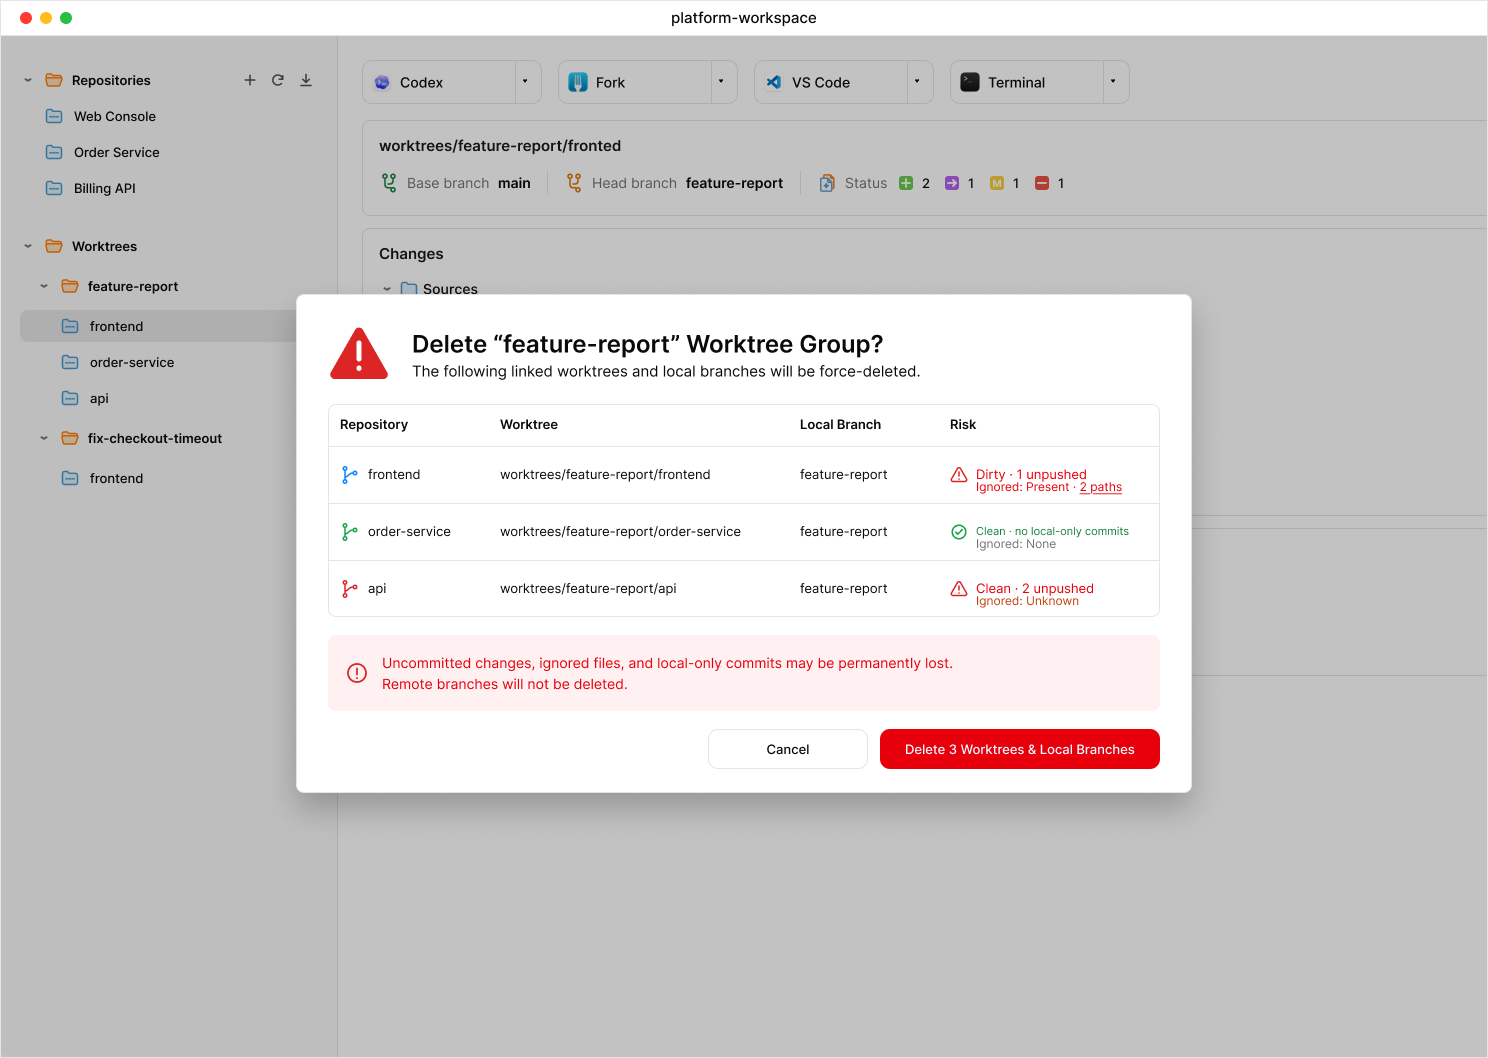
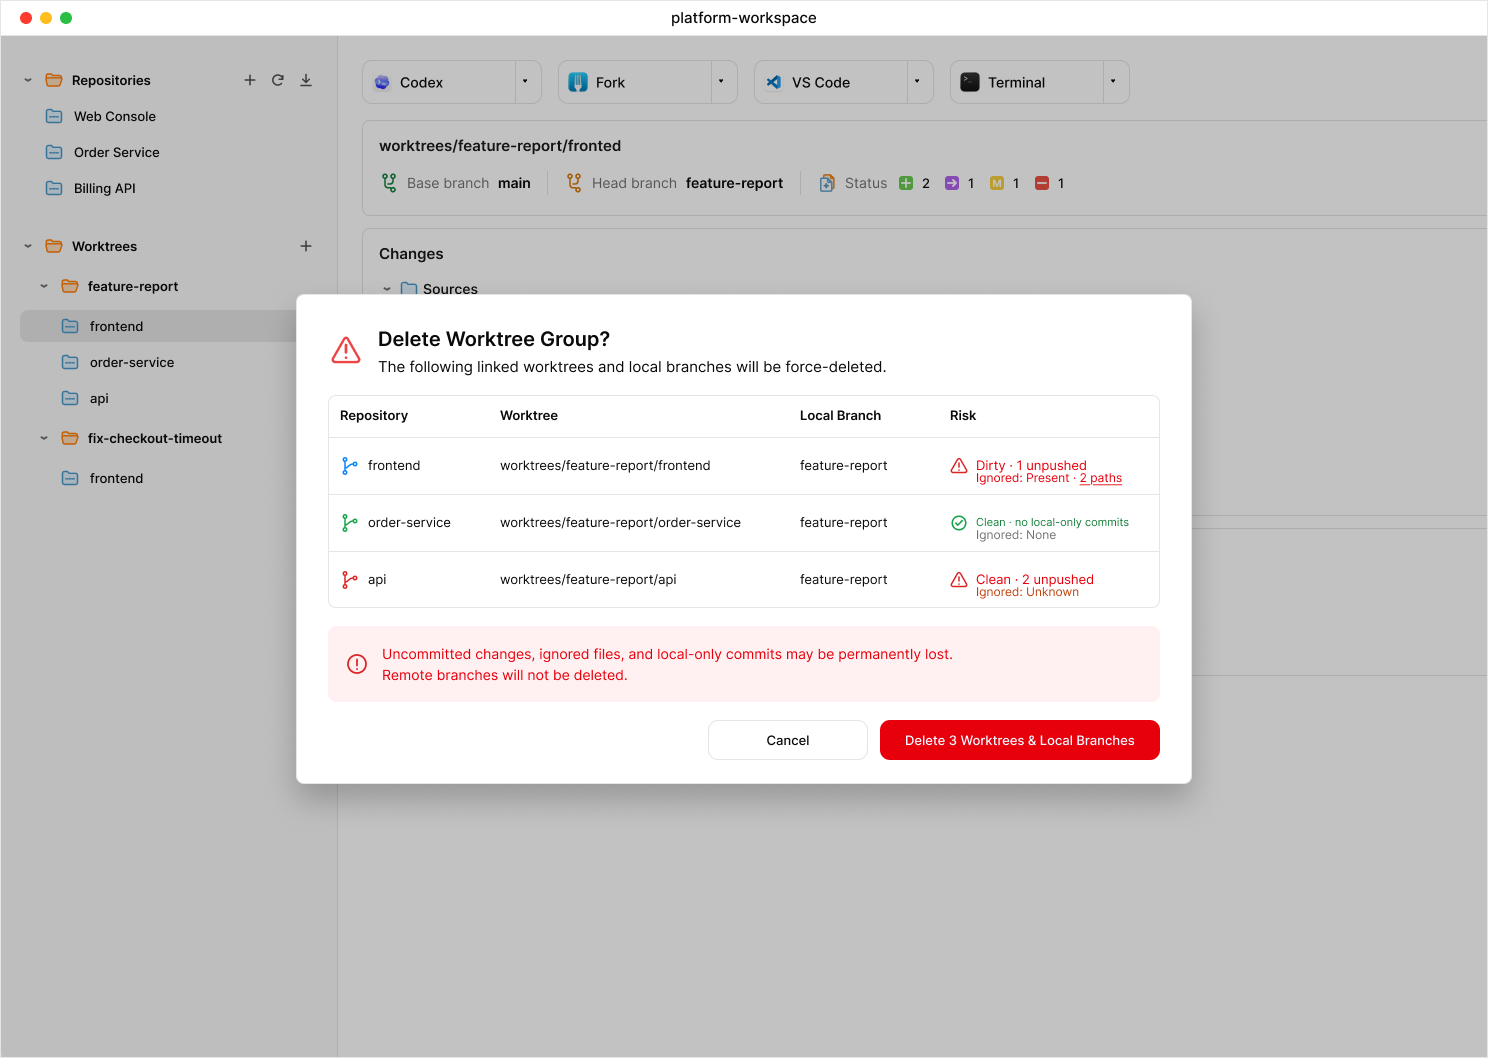
docs: add worktree group management flows

diff --git a/AGENTS.md b/AGENTS.md
@@ -73,12 +73,14 @@ Modu Desktop 是面向多仓库、跨仓库需求开发的 macOS 原生工作区
 
 - `.modu-worktrees.yaml` 按 group 管理 linked worktree。
 - 无论由 CLI 生成还是手工写入，group 都必须是合法单段目录名和可安全作为字面量使用的 Git 分支名；group 的规范化身份在配置内唯一，并统一用于目录映射、幂等判断和 group 锁键。任一 group 或记录分支非法或碰撞时，整份 `.modu-worktrees.yaml` 无效，不能进入 worktree 生命周期操作。
+- GUI 新建 group 时原样保存 Group Name，不自动 slug 化；新建和编辑都必须至少选择一个仓库。未选择仓库时只禁用提交，不显示额外错误提示。
 - `created-at` 使用本地时间 `YYYY-MM-DD HH:MM:SS`，不附带时区。
 - 已有 group 的 `created-at` 不重写；省略 `document` 保留原值，相同规范化路径幂等，不同路径在 Git 副作用前报冲突。
 - 创建流程必须幂等、可重试，并保留多仓库操作中的成功项。
 - `git worktree add` 已成功但 YAML 写入失败时，只有路径、Git 注册、主仓库、分支和 group 元数据都精确匹配才能补写记录；不匹配项必须标记冲突。
 - 同一 group 的 create/remove 使用跨 App/CLI 的 group 操作锁；同一仓库的 clone/staging 提交、origin 更新、Fetch、Pull、worktree 创建/删除、记录分支删除和 repository cleanup/Trash 移动统一使用跨进程仓库生命周期锁。锁按规范化仓库身份生成，目标目录不存在时也必须生效；多锁按规范化标识排序获取。
-- 删除单个 linked worktree 或整个 group 时，无论 dirty 与否都必须二次确认。
+- 从独立 Delete Linked Worktree 或 Delete Worktree Group 命令删除时，无论 dirty 与否都必须二次确认。Edit Worktree Group 中取消勾选已有仓库并提交，以本次 Save Changes 作为移除对应 linked worktree 和本地分支的明确授权，不再展示第二个确认页。
+- Edit Worktree Group 的 Working Tree 列只显示 Clean、Dirty、Unknown 或 Not Created；Dirty 与 Unknown 都允许取消勾选并保存，且 Clean 不表示没有 ignored content 或未推送提交。执行前在 group/仓库锁内重读身份与 working tree 状态；状态变化的 removal 不执行并刷新对应行，其他不受影响项继续。
 - 用户确认后先执行 `git worktree remove --force`，成功后再对仍存在的记录分支执行 `git branch -D`。
 - 删除弹窗必须列出 worktree、对应本地分支、dirty 状态、ignored content 风险和可检测到的未推送提交风险。
 - dirty 包含 staged、unstaged 和 untracked；ignored content 不计入 dirty，但会被 `git worktree remove --force` 一并删除，必须独立检测并在无法读取时显示 Unknown。未推送风险覆盖当前 worktree HEAD 与记录分支，detached HEAD 必须单独展示并纳入统计，无法读取时显示 Unknown。worktree 附着到不同于记录的分支属于 identity conflict。
@@ -92,9 +94,9 @@ Modu Desktop 是面向多仓库、跨仓库需求开发的 macOS 原生工作区
 
 - 只操作 `repositories/` 和 `worktrees/` 的受管后代；标准化路径后校验边界并拒绝路径逃逸和异常符号链接。
 - 声明式对账清理必须移动到 macOS Trash，不执行递归永久删除。
-- `git worktree remove --force` 仅可在用户明确确认的 worktree 删除流程中使用。
+- `git worktree remove --force` 仅可在用户明确确认的独立删除流程，或用户在 Edit Worktree Group 中取消勾选后提交 Save Changes 的成员移除流程中使用。
 - 编辑或删除配置文件本身不构成 cleanup 或强制删除授权；规划阶段不得产生副作用。
-- Remove Repository… 确认后先原子更新 `.modu.yaml`；写入失败不得执行 worktree 删除或 Trash 操作，计划变化、重启或稍后重试都必须重新确认。
+- Delete Repository 确认后先原子更新 `.modu.yaml`；写入失败不得执行 worktree 删除或 Trash 操作，计划变化、重启或稍后重试都必须重新确认。
 - YAML 写入采用工作区级 advisory lock、同目录临时文件、重新校验和原子替换。
 - `.modu.yaml` 的 GUI Add/Remove 必须 source-preserving，保留未改动条目的顺序和注释并重新解析候选内容；无法安全修改时拒绝写入并提供 Open Config。`.modu-worktrees.yaml` 可规范化输出。
 - `.modu.yaml` 错误冻结仓库对账和 repositories 操作；最后一次有效状态仅保留在内存中，错误解除前隐藏整个侧栏，并在标题栏下显示占满窗口主体的阻断恢复页。`.modu-worktrees.yaml` 错误冻结 worktree 创建、删除、修复和依赖关联 worktree 的 repository cleanup，但不冻结 Add、Fetch、Pull 或 additive 对账，并继续显示明确标记为 Stale 的最后一次有效 worktree 列表。
@@ -104,13 +106,15 @@ Modu Desktop 是面向多仓库、跨仓库需求开发的 macOS 原生工作区
 
 - 使用原生 macOS 控件和 `NavigationSplitView`，保持紧凑、工作导向，避免卡片式仪表盘。
 - 标题栏正常时居中显示当前工作区目录名；hover 有点击态，点击重新选择工作区；名称右侧不显示三角图标。手动 Fetch/Pull 期间同一位置仅显示 spinner 与 `Fetch/Pull 'origin'`，成功后显示 `Already up to date` 3 秒再恢复目录名。
-- 左侧只显示 `Repositories` 和 `Worktrees`。两个分区标题左侧都依次显示 chevron 和 open/closed folder，二者共同表达展开状态；标题整行都可切换展开/折叠，但 `Repositories` 右侧的 Add、Fetch、Pull 操作区不触发折叠。
+- 左侧只显示 `Repositories` 和 `Worktrees`。两个分区标题左侧都依次显示 chevron 和 open/closed folder，二者共同表达展开状态；标题整行都可切换展开/折叠，但标题右侧操作区不触发折叠。`Repositories` 右侧提供 Add、Fetch、Pull，`Worktrees` 右侧提供 Create Worktree Group 的 plus 图标按钮。
 - Repositories 的 Add、Fetch、Pull 分别使用简洁的 plus、clockwise refresh 和 down-to-line 图形；任一 Repositories 异步操作运行时三个按钮保持原尺寸并统一置灰禁用。Fetch/Pull 的 loading 与成功反馈只占用标题栏 workspace-title，不在按钮、仓库行或内容区重复表达。
 - 主仓库和 linked worktree 使用固定蓝色的仓库/工作树图标；图标不支持自定义颜色，也不是独立操作入口。
 - group 左侧依次显示 chevron 和 open/closed folder，整行点击展开或折叠；展开使用橙色 open-folder，折叠使用蓝色 closed-folder，不支持自定义颜色。
 - 主仓库、group 和 linked worktree 侧栏行高统一为 32px。主工作树或 linked worktree 存在 staged、unstaged 或 untracked 变化时，在行尾固定槽位显示 `#AAAAAA` 的 6px 圆点；ignored content 不触发圆点，圆点不得替代可访问状态描述。
-- 点击主仓库或 linked worktree 行执行选择；仓库和 worktree 的 Reveal in Finder、Copy Path、删除等低频操作放入右键菜单，右侧详情不重复 Reveal。
-- group 有有效 `document` 时提供 Open Plan 和 Reveal Plan in Finder；主仓库 Remove Repository… 必须先展示 cleanup 计划。
+- 点击主仓库或 linked worktree 行执行选择；路径和删除等低频操作放入右键菜单，右侧详情不重复 Reveal。经边界和符号链接校验后，Copy Path 复制规范化绝对路径；路径异常时不显示 Copy Path。Reveal in Finder 无法执行时保留但禁用，并说明原因。
+- group 右键菜单固定为 Copy Path、Reveal in Finder、Edit Worktree Group、Delete Worktree Group，始终不显示方案文档相关操作且文案不带省略号。主仓库右键菜单固定为 Copy Path、Reveal in Finder、Delete Repository；linked worktree 右键菜单提供 Copy Path、Reveal in Finder、Delete Linked Worktree。
+- Create Worktree Group sheet 只显示 Group Name、32px 仓库 checkbox 列表及底部操作，不显示选择数量、路径/分支预览、document 或帮助文案。Edit Worktree Group 中名称只读，列表增加 Working Tree 状态列；存在 removal 时 Save Changes 使用 destructive 样式，但不再二次确认。
+- Delete Worktree Group 确认页标题固定为 `Delete Worktree Group?`，不包含 group 名称；Delete Repository 必须先展示 cleanup 计划。
 - 顶部四类分裂按钮为 Agent、Git GUI、编辑器、终端，只展示检测成功的内置目标。点击主要区域时使用当前类别的全局默认软件打开当前选中的主工作树或 linked worktree 路径；点击右侧 chevron 只打开目标菜单。菜单不显示 check 图标或选中态，仅在 hover 时显示浅灰背景；点击菜单项后立即尝试用该软件打开当前路径，只有启动成功才更新默认软件。
 - 未选择主仓库或 linked worktree 时，右侧正常状态只显示居中的静态图标和 `What should we build?`，不显示工作区概览、统计、列表、操作按钮或外部工具入口；阻断性配置错误和必须处理的安全流程可覆盖该静态状态。只有选中主仓库或 linked worktree 后，才显示适用于当前受管目录的 Agent、Git GUI、编辑器和终端入口。
 - 四类默认软件保存在应用私有数据中的同一份全局偏好配置内，不按工作区、仓库或 worktree 分别保存。外部工具只有启动成功后才更新对应类别的默认值；启动前重新验证目标仍是当前工作区的受管仓库/worktree，且没有符号链接逃逸。
